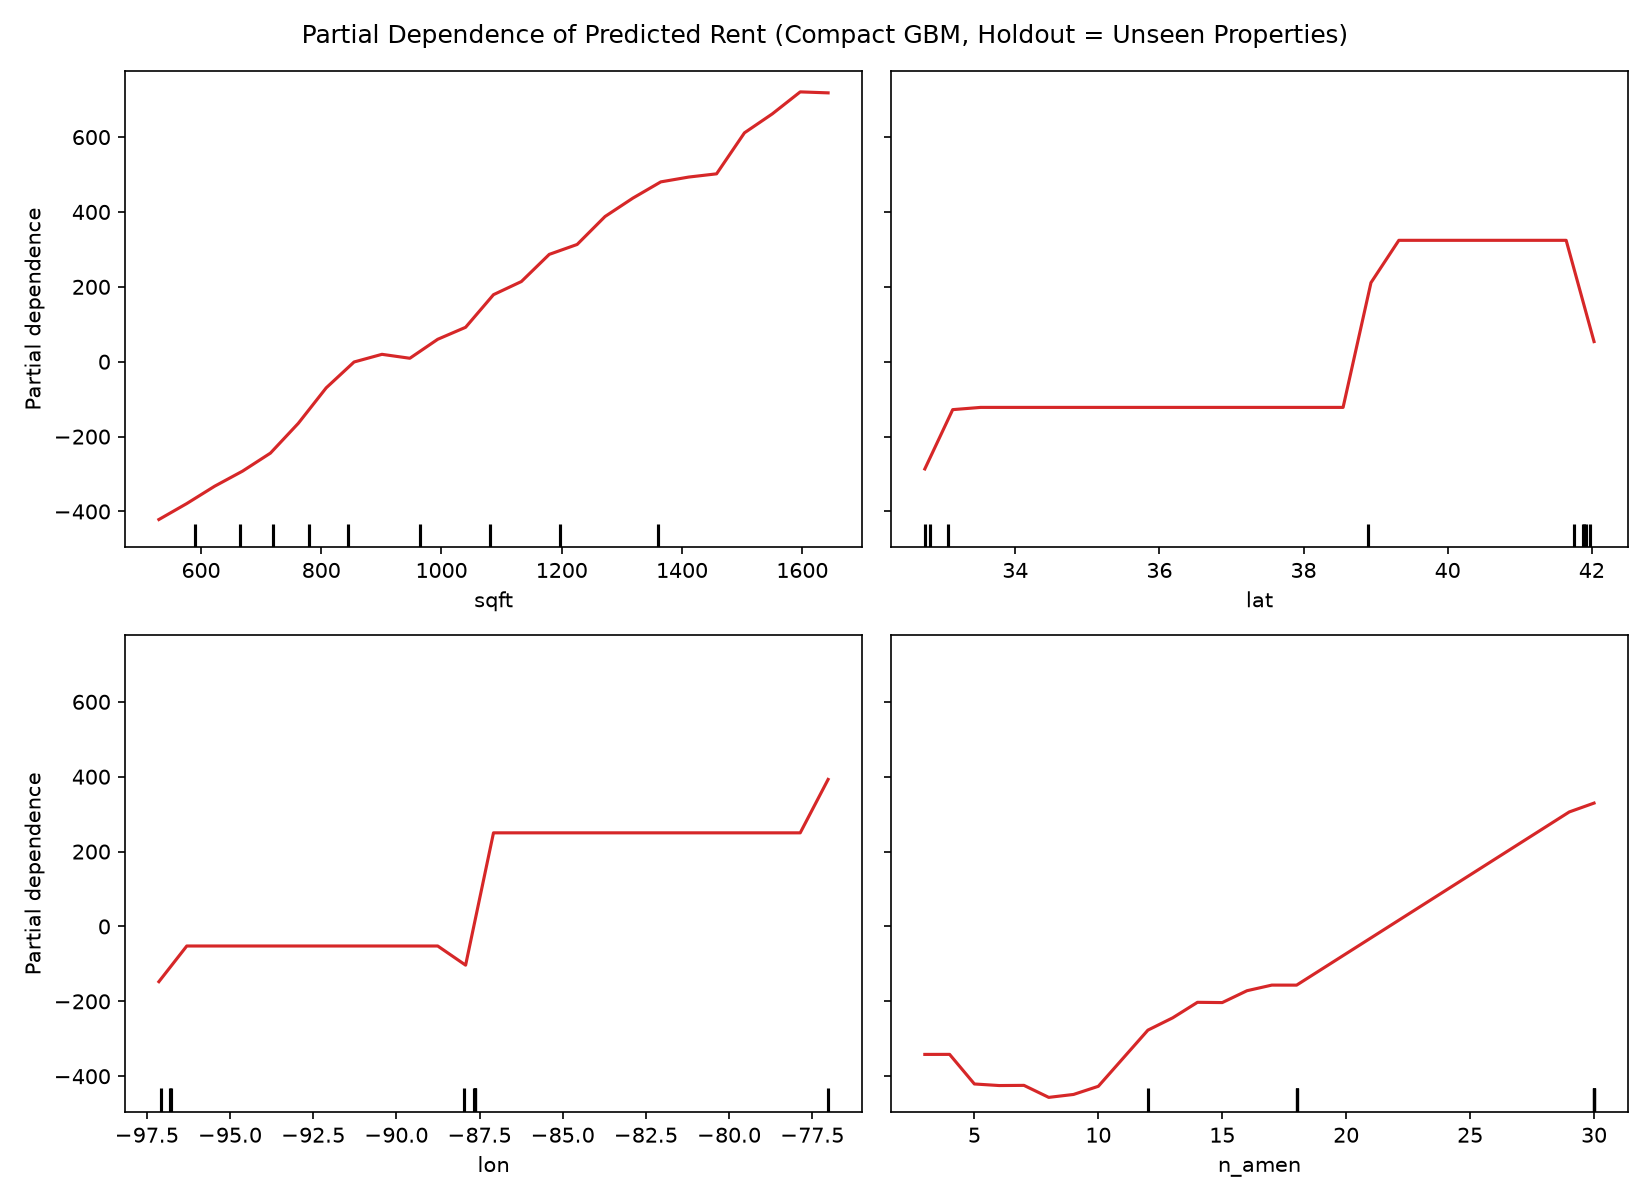
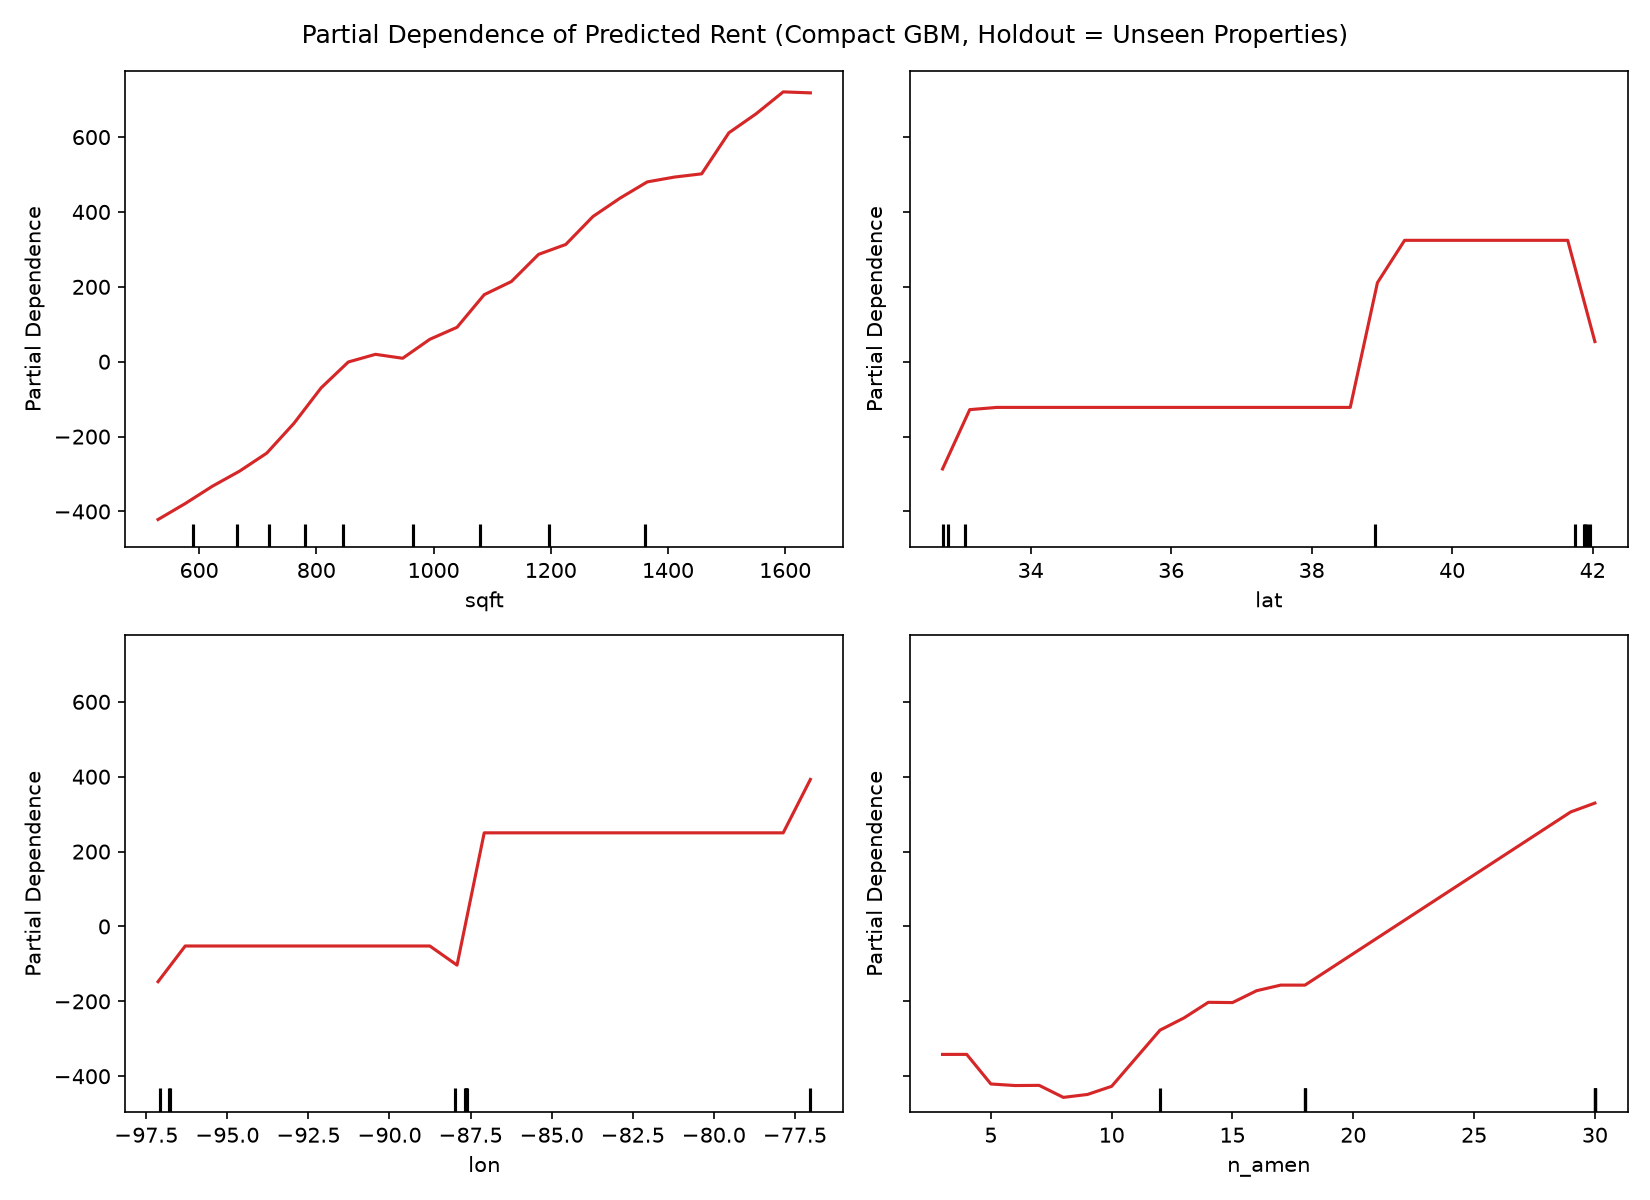
modified graphs again lol

diff --git a/eda/numeric_plots.py b/eda/numeric_plots.py
@@ -83,8 +83,9 @@ def p02_geo(df):
         g = d[d.market == m]
         hb = a.hexbin(g.lon, g.lat, C=g.rent, reduce_C_function=np.median, gridsize=35,
                       mincnt=5, cmap="magma", vmin=d.rent.quantile(.05), vmax=vmax)
-        a.set(title=f"{m.title()}: Median Rent", xlabel="Longitude", ylabel="Latitude")
-    fig.colorbar(hb, ax=ax, label="median rent $")
+        market_name = {"chicago": "Chicago" , "dc": "DC", "dfw": "DFW"}.get(m.lower(), m.title())
+        a.set(title=f"{market_name}: Median Rent", xlabel="Longitude", ylabel="Latitude")
+    fig.colorbar(hb, ax=ax, label="Median Rent ($)")
     fig.savefig(OUT / "02_geography.png", dpi=150); plt.close(fig); print("saved 02_geography.png")
 
 
@@ -112,7 +113,7 @@ def p04_within_between(df):
     d = d[d.sqft.between(*lim)]
     fig, ax = plt.subplots(1, 2, figsize=(12, 5))
     ax[0].hexbin(d.sqft, d.rent, gridsize=50, bins="log", cmap="viridis", mincnt=1)
-    ax[0].set(title=f"Raw: Pearson={d.sqft.corr(d.rent):.2f}", xlabel="sqft", ylabel="rent")
+    ax[0].set(title=f"Raw: Pearson={d.sqft.corr(d.rent):.2f}", xlabel="Sqft", ylabel="Rent")
     ax[1].hexbin(d.sqft_w, d.rent_w, gridsize=50, bins="log", cmap="viridis", mincnt=1)
     ax[1].set(title=f"Within property: Pearson={d.sqft_w.corr(d.rent_w):.2f}",
               xlabel="Sqft - Building Mean", ylabel="Rent - Building Mean")
@@ -127,8 +128,12 @@ def p05_pdp(df):
     gb = HistGradientBoostingRegressor(max_iter=200, learning_rate=0.1, random_state=SEED).fit(X.iloc[tr], d.rent.iloc[tr])
     show = ["sqft", "lat", "lon", "n_amen"]
     fig, ax = plt.subplots(2, 2, figsize=(11, 8))
-    PartialDependenceDisplay.from_estimator(gb, X.iloc[te].sample(min(5000, len(te)), random_state=SEED), show,
-                                            grid_resolution=25, ax=ax, line_kw={"color": "C3"})
+    PartialDependenceDisplay.from_estimator(
+    gb, X.iloc[te].sample(min(5000, len(te)), random_state=SEED), show,
+    grid_resolution=25, ax=ax, line_kw={"color": "C3"}
+    )
+    for a in ax.flat:
+        a.set_ylabel("Partial Dependence")
     fig.suptitle("Partial Dependence of Predicted Rent (Compact GBM, Holdout = Unseen Properties)")
     save(fig, "05_partial_dependence.png")
     print(f"  compact GBM holdout R2={gb.score(X.iloc[te], d.rent.iloc[te]):.3f}")
